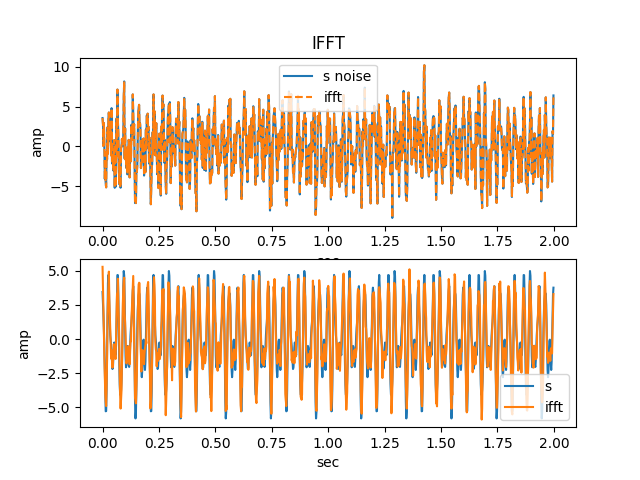
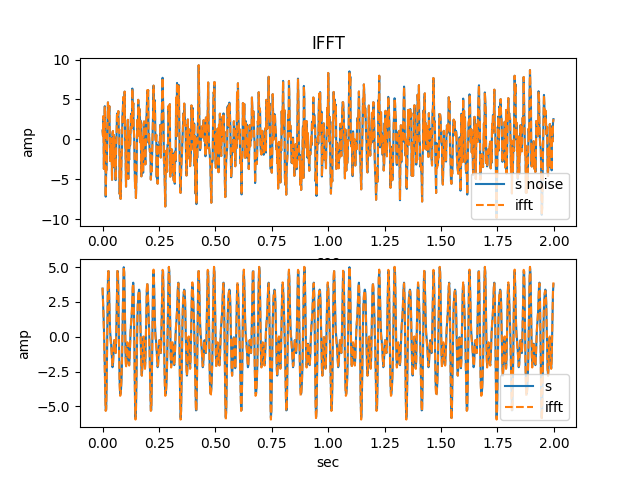
fixed ifft

diff --git a/FFT.py b/FFT.py
@@ -110,7 +110,8 @@ plt.xlabel('sec')
 plt.ylabel('amp')
 
 # IFFT with no noise
-temp = np.where(S < threshold, 0, S)
+PSD = S*np.conj(S)/N
+temp = np.where(PSD < 100, 0, S)
 # indices2 = S > threshold
 # temp = S * indices2
 s_clean = np.fft.ifft(temp, N)
@@ -118,12 +119,10 @@ s_clean = np.fft.ifft(temp, N)
 # plot time domain
 plt.subplot(2,1,2)
 plt.plot(time, s, label='s')
-plt.plot(time, np.real(s_clean), '-', label='ifft')
+plt.plot(time, np.real(s_clean), '--', label='ifft')
 plt.legend()
 plt.xlabel('sec')
 plt.ylabel('amp')
-
-# print(s_clean[100:150])
 
 # DFT cos sin coefficients
 a0 = S[0]/N
@@ -131,9 +130,8 @@ an = 2*np.real(S[1:int(N/2)+1])/N
 bn = 2*np.imag(S[1:int(N/2)+1])/N
 amp = np.sqrt(an*an + bn*bn)
 pha = np.arctan2(bn, an)
-plt.figure(4)
-plt.plot(f_half, amp)
-
+# plt.figure(4)
+# plt.plot(f_half, amp)
 
 plt.show()
 

diff --git a/readme.md b/readme.md
@@ -59,7 +59,7 @@ Using a threshold of 0.5 amplitude, all signals below this are zeroed out to giv
 
 ![image](plots/IFFT.png)
 
-Using a threshold of 0.5 amplitude, can use IFFT to get the pure signal back out. (need fixing)
+Using power spectrum density (PSD) and a threshold of 100 amplitude to zero out any low powered noise, then use IFFT to get the pure signal back out.
 
 # References
 [Matlab FFT](https://www.youtube.com/watch?v=XEbV7WfoOSE)
